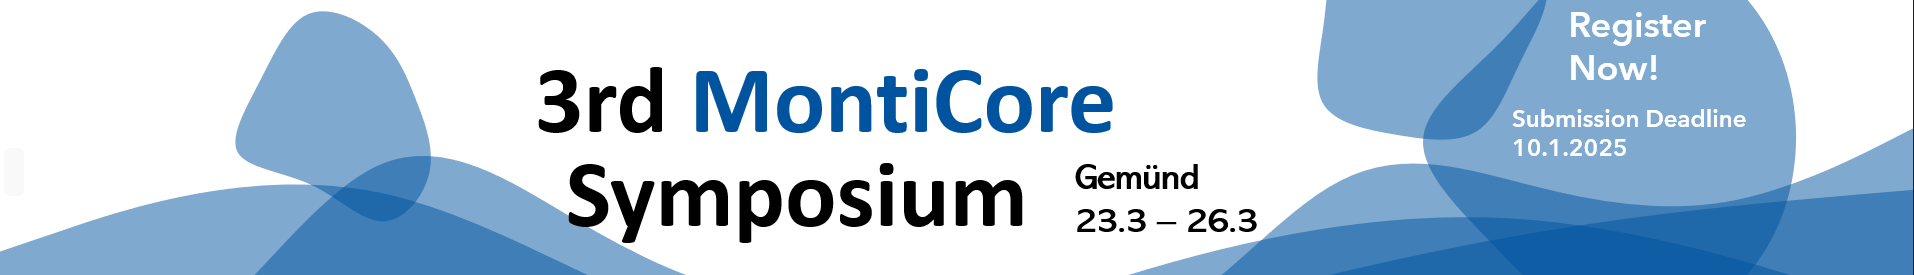
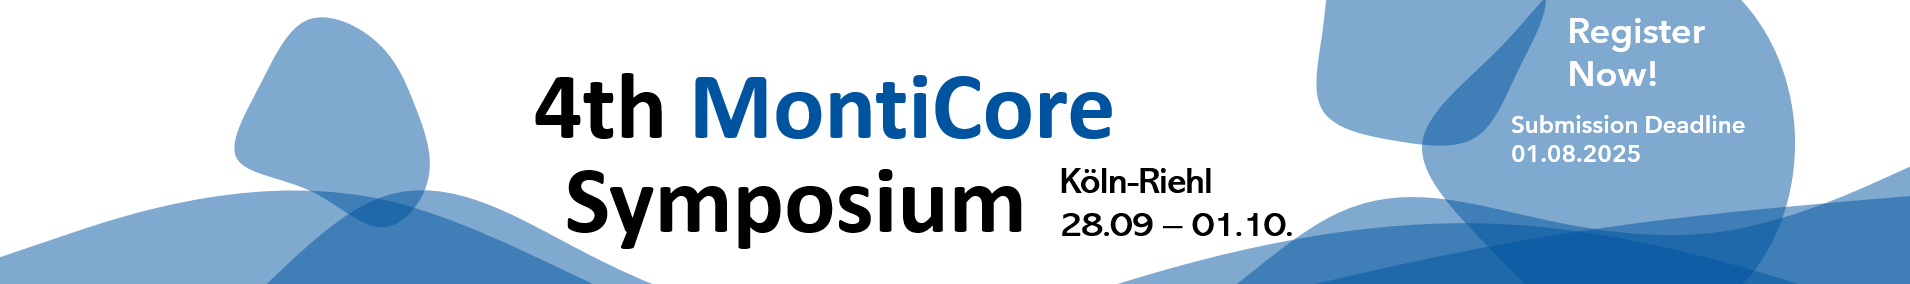
Update website for 4th MC symposium.

diff --git a/docs/MontiCoreSymposium.md b/docs/MontiCoreSymposium.md
@@ -1,6 +1,6 @@
 <!-- (c) https://github.com/MontiCore/monticore -->
 
-## Third MontiCore Symposium 23. March - 26. March 2025
+## Fourth MontiCore Symposium 28. September - 01. October 2025
 
 ![](https://github.com/MontiCore/monticore/raw/dev/docs/docs/MC_Symp_Banner.png)
 
@@ -27,16 +27,16 @@ solutions in the context of DSLs and model-based development.
 
 ### Location
 
-The MontiCore symposium will be located in Gemünd, Germany. 
+The MontiCore symposium will be located in Köln_Riehl, Germany. 
 
 ### Participation
 
 Participation is based on acceptance of an abstract or a full paper and 
-requires registration until **07th of March**. 
+requires registration until **12th of September**. 
 
-Registration costs are 660€ and include accommodation, 
+Registration costs are tbd and include accommodation, 
 conference fees, and meals during the symposium.  
-~~You can register via this link~~ Registration is closed.
+Registration will be open soon.
 
 ### Submission
 
@@ -46,16 +46,16 @@ be found [here](https://www.acm.org/publications/proceedings-template). We ask f
  [1] Research papers: 8 pages,
  [2] Vision abstracts: 1 page.
  
-Submissions must be uploaded through [EasyChair via this link](https://easychair.org/conferences/?conf=mcs25). 
+Submissions must be uploaded via (link coming soon). 
 
 It is planned to produce post-proceedings with extended and improved 
 versions of the papers as result of the symposium. 
 
 ### Important Dates (deadlines extended) 
- * **10.01.2025**: Paper Submission Deadline 
- * **28.02.2025**: Acceptance Notification 
- * **07.03.2025**: Registration Deadline 
- * **23.03.2025-26.03.2025**: MontiCore Symposium 
+ * **25.07.2025**: Paper Submission Deadline 
+ * **22.08.2025**: Acceptance Notification 
+ * **12.09.2025**: Registration Deadline 
+ * **28.09.2025-01.10.2025**: MontiCore Symposium 
 
 
 ### Call for Papers
